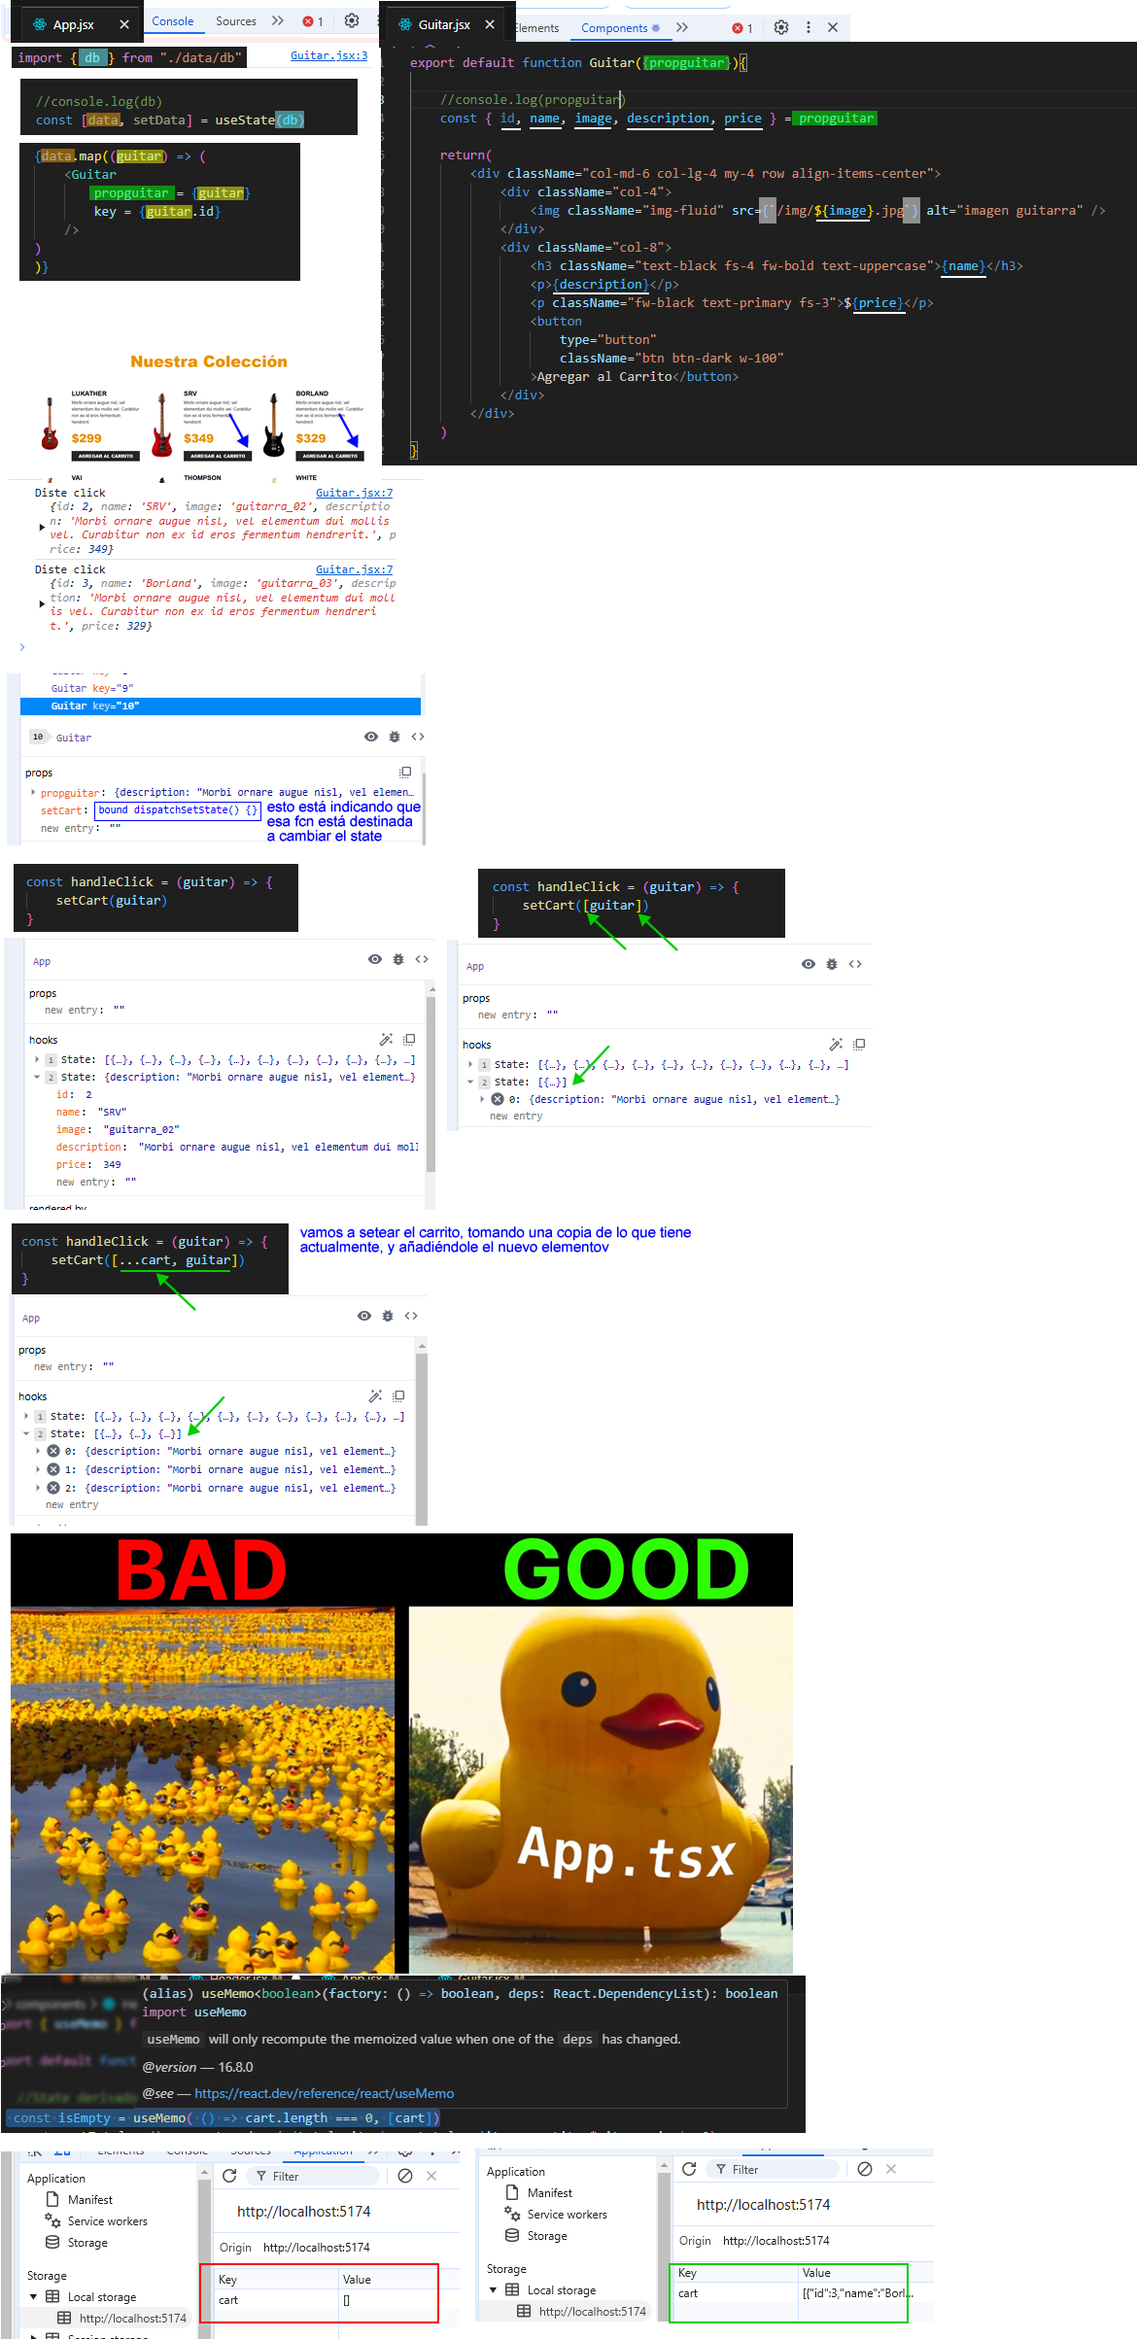
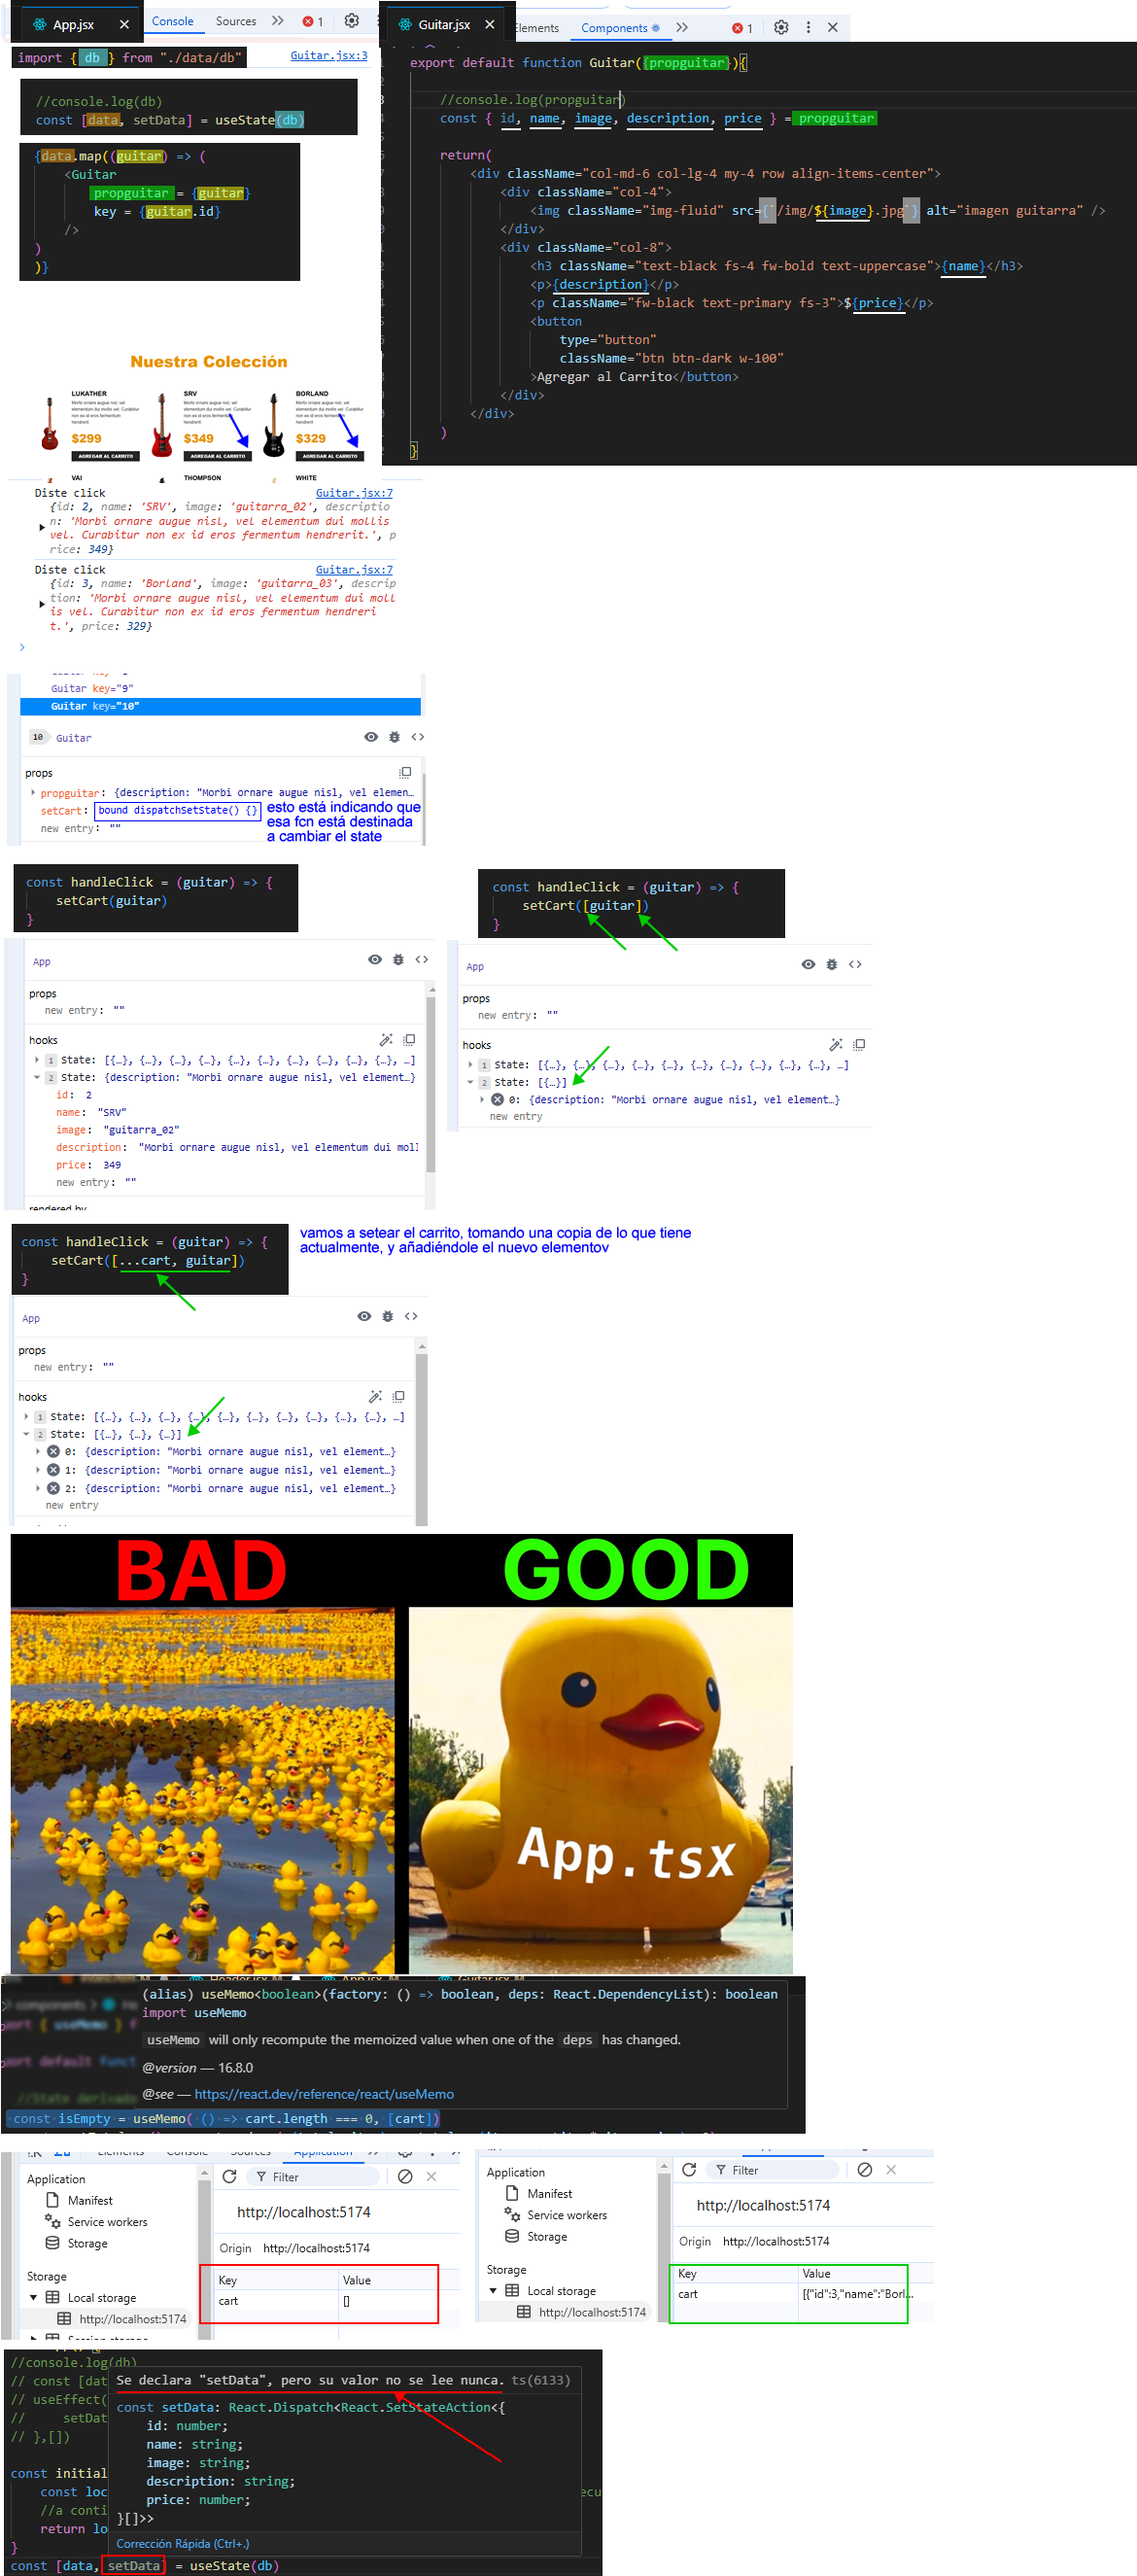
fin seccion 6

diff --git a/index.html b/index.html
@@ -2281,7 +2281,26 @@
               </div>
               <!-- Fin bloque desplegable interior-->
     
-<!-- BLOQUE CÓDIGO PROVISIONAL -->
+    
+    <!-- Bloque desplegable interior-->
+    <div class="flex center-vertical esp-25-top pointer desplegable-interior space-between pointer oscuro" onclick="$('#seccion6-84').toggle();">	
+      <h3>84. Últimos Ajustes y Deployment</h3>			
+      <span class="cambiaicono ico_chevron_down_blanco ico20 esp-5-right" title=""></span>
+    </div>
+    <div id="seccion6-84" style="display:none">
+      <p>Veamos los últimos ajustes para realiszar el deployment de nuestro proyecto. Revismoas avisos en la terminal por si tenemos rutas a img mal puestas y también eliminamos funciones y/o variables que no se estén utilizando. En este caso como vemos, la función del state data "setData" no se está usando así que la podemos eliminar: <code class="language-js">const [data, setData] = useState(db) </code></p>
+
+      <img src="./src/assets/img/84.png" alt="">
+
+      <p>¿Como podemos subir este proyecto? <span class="destacado">Este tipo de proyectos de React.js Vue.js Angular.js se tienen que construir</span>. Si abrimos el <strong>package.json</strong> vemos la línea de "build": "vite build". Todo loque tenemos está en desarrollo pero cuando construimos, este comando se va a encargar de realizar una serie de mejoras, de performance (subir versiones minificadas, más ligera...). Vamos a la terminal y escribimos <span class="destacado">npm run build</span> nos genera la carpeta <span class="destacado">dist</span>. En la consola nos da una serie de información "convertí 34 módulos" incluyendo nuestros componentes, nuestros archivos y también algunas d elas dependencias que imporamos en la parte superior, entonces Vite en automático se encarga de hacerlo. En esa carpeta dist genera nuestro index.html, la hoja de estilos y la js que contiene una versión de React. Pero si damos doble click a ese html eso no funciona, hay que subirlo a algún sitio. La mejor versión hoy día es Netlify. Si nos logamos de nuevas comenta que si la cuenta es muy nueva en Github va a haber errores (lo hacen para protegerse del spam) y presionamos en iniciar sesión con email.</p>
+
+      <p>A continuación veamos cómo crear nuestros propios Hooks y por qué es bueno hacerlo. Lo haremos con uno que centralice todas las funciones de nuestro carrito de compra.</p>
+      
+    </div>
+    <!-- Fin bloque desplegable interior-->
+    
+
+    <!-- BLOQUE CÓDIGO PROVISIONAL -->
     <div>
       <p class="rojo">App.jsx</p>
       <script type="text/plain" class="language-js h-300">
@@ -2537,41 +2556,7 @@
       </div>
     </div>
 <!-- FIN BLOQUE CÓDIGO PROVISIONAL -->
-
-
-    
-    <!-- Bloque desplegable interior-->
-    <div class="flex center-vertical esp-25-top pointer desplegable-interior space-between pointer oscuro" onclick="$('#seccion6-84').toggle();">	
-      <h3>84. Últimos Ajustes y Deployment</h3>			
-      <span class="cambiaicono ico_chevron_down_blanco ico20 esp-5-right" title=""></span>
-    </div>
-    <div id="seccion6-84" style="display:none">
-      <p>Veamos los últimos ajustes para realiszar el deployment de nuestro proyecto. Revismoas avisos en la terminal por si tenemos rutas a img mal puestas y también eliminamos funciones y/o variables que no se estén utilizando. En este caso como vemos, la función del state data "setData" no se está usando así que la podemos eliminar: <code class="language-js">const [data, setData] = useState(db) </code></p>
-
-      <img src="./src/assets/img/84.png" alt="">
-
-      <p>¿Como podemos subir este proyecto? <span class="destacado">Este tipo de proyectos de React.js Vue.js Angular.js se tienen que construir</span>. Si abrimos el <strong>package.json</strong> vemos la línea de "build": "vite build". Todo loque tenemos está en desarrollo pero cuando construimos, este comando se va a encargar de realizar una serie de mejoras, de performance (subir versiones minificadas, más ligera...). Vamos a la terminal y escribimos <span class="destacado">npm run build</span> nos genera la carpeta <span class="destacado">dist</span>. En la consola nos da una serie de información "convertí 34 módulos" incluyendo nuestros componentes, nuestros archivos y también algunas d elas dependencias que imporamos en la parte superior, entonces Vite en automático se encarga de hacerlo. En esa carpeta dist genera nuestro index.html, la hoja de estilos y la js que contiene una versión de React. Pero si damos doble click a ese html eso no funciona, hay que subirlo a algún sitio. La mejor versión hoy día es Netlify. Si nos logamos de nuevas comenta que si la cuenta es muy nueva en Github va a haber errores (lo hacen para protegerse del spam) y presionamos en iniciar sesión con email.</p>
-
-      <p>A continuación veamos cómo crear nuestros propios Hooks y por qué es bueno hacerlo. Lo haremos con uno que centralice todas las funciones de nuestro carrito de compra.</p>
-      
-    </div>
-    <!-- Fin bloque desplegable interior-->
-    
-    
-    
-    
-              <!-- Bloque desplegable interior-->
-              <div class="flex center-vertical esp-25-top pointer desplegable-interior space-between pointer oscuro" onclick="$('#seccion6-XX').toggle();">	
-                <h3>XX. XXXXXXXXXXXXXXX</h3>			
-                <span class="cambiaicono ico_chevron_down_blanco ico20 esp-5-right" title=""></span>
-              </div>
-              <div id="seccion6-XX" style="display:none">
-                <p></p>
-                
-              </div>
-              <!-- Fin bloque desplegable interior-->
-    
-    
+        
               
                 
             </div>			
@@ -2592,46 +2577,7 @@
     
     
     
-    <!-- SECCIÓN XX -->
-    <div class="contenedor w-80 w-96-s background esp-5-bottom">		
-      <div class="row">
-        <div class="flex center-vertical esp-25-top pointer desplegable space-between pointer" onclick="$('#seccionX').toggle();">	
-          <h2>Sección X: XXXXXXXXXXXXXXXXXX</h2>				
-          <span class="cambiaicono ico_chevron_down esp-10-right" title=""></span>
-        </div>
-        
-        <div id="seccionX" style="display:none">
-            
-          <div class="row">
-            <div class="col-12">	
-              
-              <!-- Bloque desplegable interior-->
-              <div class="flex center-vertical esp-25-top pointer desplegable-interior space-between pointer oscuro" onclick="$('#seccionX-XX').toggle();">	
-                <h3>XX. XXXXXXXXXXX</h3>			
-                <span class="cambiaicono ico_chevron_down_blanco ico20 esp-5-right" title=""></span>
-              </div>
-              <div id="seccionX-XX" style="display:none">
-                <p></p>
-                
-              </div>
-              <!-- Fin bloque desplegable interior-->
     
-    
-              
-                
-            </div>			
-          </div><!--Fin row-->
-    
-          
-            
-          
-        </div>
-        <!-- Fin div colapsable-->
-    
-    
-      </div>
-    </div>	
-    <!-- FIN SECCIÓN XX -->
         
     
     
